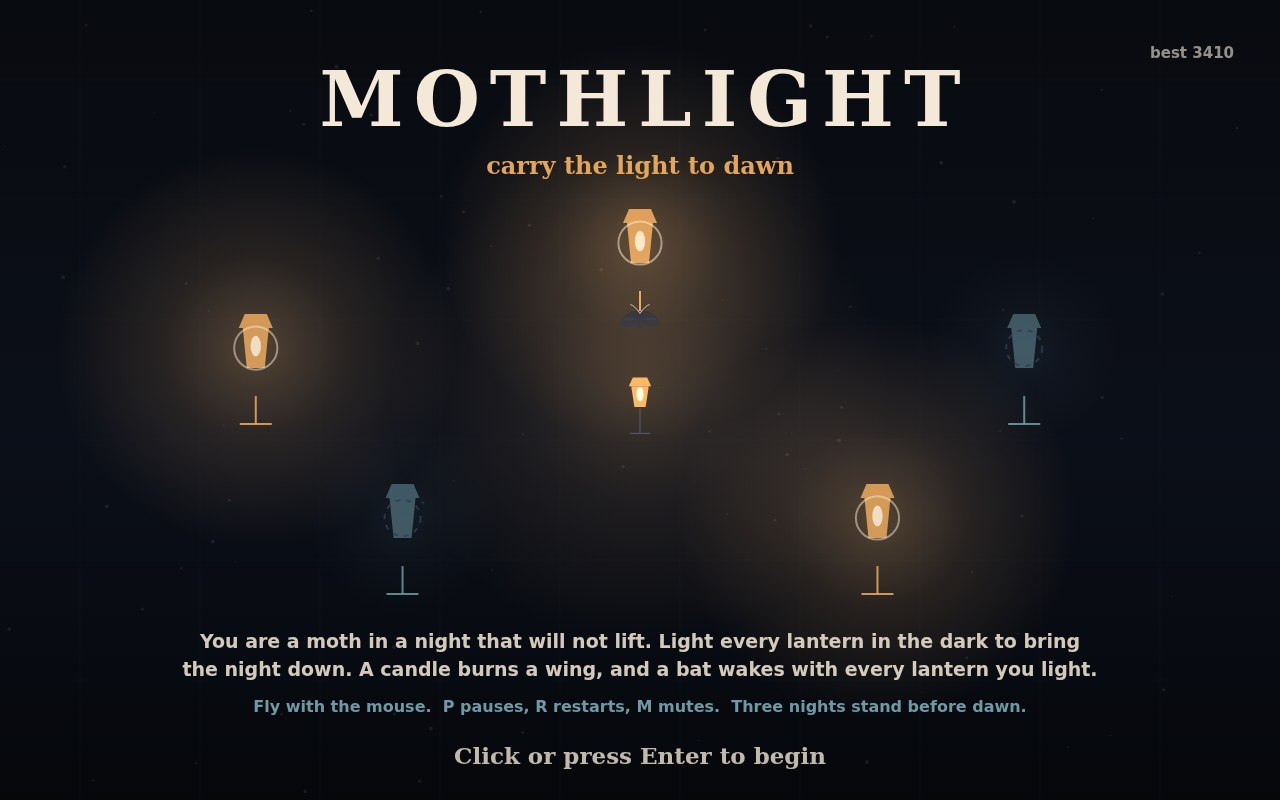
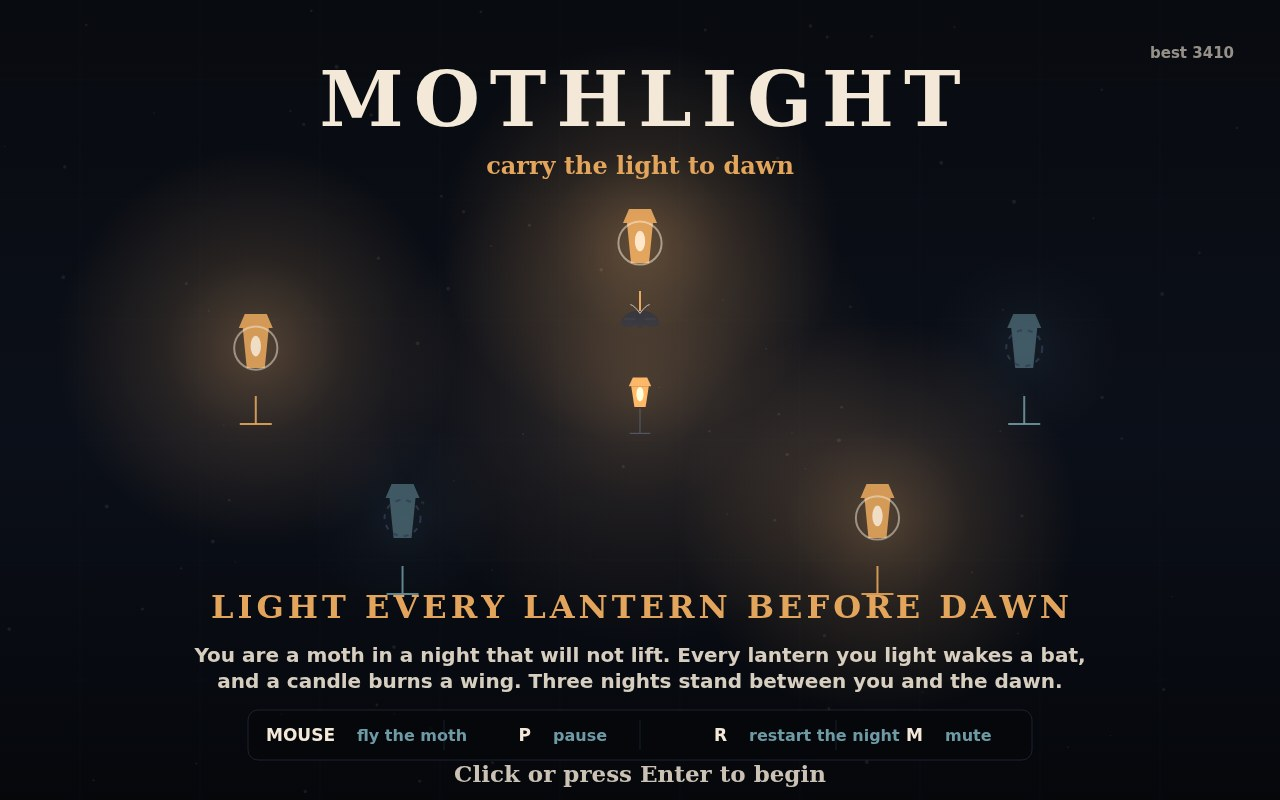
Mothlight v2: the goal and the controls written out on the title card, the chain multiplier shown in the HUD, bigger score pops, a halo on the moth; README badges and the About set

Changed region(s): [[0.125, 0.7188, 0.875, 1.0]]

diff --git a/game/src/render.js b/game/src/render.js
@@ -330,6 +330,8 @@ export class Renderer {
 
     const mothLight = this.mothLight(world, moth);
     this.light(moth.x, moth.y, mothLight, PALETTE.amber, moth.recovering ? 0.16 : 0.34);
+    // A tight halo on the moth itself, so the player is findable when the sheet is read small.
+    this.light(moth.x, moth.y, MOTH.radius * 4.6, PALETTE.bone, moth.recovering ? 0.1 : 0.18);
     for (const lantern of world.lanterns) {
       if (lantern.lit) this.light(lantern.x, lantern.y - 4, lantern.reach, PALETTE.amber, 0.42);
       // A lantern still cold keeps a dim pool of its own blue, so it can be seen across the dark.
@@ -395,9 +397,10 @@ export class Renderer {
     for (const pop of world.pops) {
       const fade = 1 - pop.age / 1.1;
       this.text(`+${pop.value}`, pop.x, pop.y - 26 - pop.age * 22, {
-        size: 20,
+        size: 26,
         color: PALETTE.amber,
         align: 'center',
+        weight: '700',
         alpha: fade,
       });
     }
@@ -426,7 +429,7 @@ export class Renderer {
     this.text(String(world.score), 44, 90, { size: 42, color: PALETTE.bone, font: SERIF, weight: '700' });
     this.text(`BEST ${best}`, 258, 90, { size: 15, color: this.alpha(PALETTE.bone, 0.6), align: 'right' });
 
-    card(STAGE.width / 2 - 180, 20, 360, 84);
+    card(STAGE.width / 2 - 180, 20, 360, 112);
     this.text('LANTERNS', STAGE.width / 2, 44, {
       size: 14,
       color: PALETTE.tide,
@@ -455,11 +458,23 @@ export class Renderer {
       ctx.stroke();
       ctx.restore();
     }
-    this.text(`${lit} / ${total}`, STAGE.width / 2 + rowWidth / 2 + 40, 88, {
-      size: 17,
-      color: this.alpha(PALETTE.bone, 0.85),
+    this.text(`${lit} / ${total}`, STAGE.width / 2 + rowWidth / 2 + 44, 90, {
+      size: 22,
+      color: this.alpha(PALETTE.bone, 0.95),
       align: 'left',
+      weight: '700',
     });
+    // The chain is the game's own scoring rule made visible: each lantern lit after the first is
+    // worth more, so a night going well shows the multiplier it is actually paying at.
+    if (lit >= 2) {
+      this.text(`CHAIN x${lit}`, STAGE.width / 2 - rowWidth / 2 - 44, 90, {
+        size: 22,
+        color: PALETTE.amber,
+        align: 'right',
+        weight: '700',
+        tracking: 1.4,
+      });
+    }
 
     card(STAGE.width - 330, 20, 306, 84);
     this.text('WING', STAGE.width - 312, 46, { size: 14, color: PALETTE.tide, weight: '700', tracking: 2.6 });
@@ -598,6 +613,46 @@ export class Renderer {
     }
   }
 
+  /** The controls, grouped in one panel, so the title screen teaches the game at a glance. */
+  drawControlsPanel() {
+    const { ctx } = this;
+    const keys = [
+      ['MOUSE', 'fly the moth'],
+      ['P', 'pause'],
+      ['R', 'restart the night'],
+      ['M', 'mute'],
+    ];
+    const width = 784;
+    const height = 50;
+    const x = STAGE.width / 2 - width / 2;
+    const y = 710;
+    ctx.save();
+    ctx.fillStyle = this.alpha(PALETTE.ink, 0.74);
+    ctx.strokeStyle = this.alpha(PALETTE.slate, 0.5);
+    ctx.lineWidth = 1;
+    ctx.beginPath();
+    ctx.roundRect(x, y, width, height, 10);
+    ctx.fill();
+    ctx.stroke();
+    ctx.restore();
+    const step = width / keys.length;
+    for (let i = 0; i < keys.length; i += 1) {
+      const centre = x + step * (i + 0.5);
+      if (i > 0) {
+        ctx.save();
+        ctx.strokeStyle = this.alpha(PALETTE.slate, 0.45);
+        ctx.lineWidth = 1;
+        ctx.beginPath();
+        ctx.moveTo(x + step * i, y + 10);
+        ctx.lineTo(x + step * i, y + height - 10);
+        ctx.stroke();
+        ctx.restore();
+      }
+      this.text(keys[i][0], centre - 11, y + 31, { size: 17, color: PALETTE.bone, align: 'right', weight: '700' });
+      this.text(keys[i][1], centre + 11, y + 31, { size: 16, color: PALETTE.tide, align: 'left' });
+    }
+  }
+
   drawTitle(best, hint) {
     this.overlay(PALETTE.ink, 0.5);
     this.drawTitleRing(5);
@@ -622,24 +677,30 @@ export class Renderer {
       color: this.alpha(PALETTE.bone, 0.6),
       align: 'right',
     });
-    this.text('You are a moth in a night that will not lift. Light every lantern in the dark to bring', STAGE.width / 2, 648, {
-      size: 19,
-      color: this.alpha(PALETTE.bone, 0.86),
+    // The goal first and large: the cover is read at thumbnail size, so the one line that says what
+    // to do is the biggest thing under the title. The rules follow it, then the controls as a panel.
+    this.text('LIGHT EVERY LANTERN BEFORE DAWN', STAGE.width / 2, 618, {
+      size: 32,
+      color: PALETTE.amber,
+      align: 'center',
+      font: SERIF,
+      weight: '700',
+      tracking: 4,
+    });
+    this.text('You are a moth in a night that will not lift. Every lantern you light wakes a bat,', STAGE.width / 2, 662, {
+      size: 20,
+      color: this.alpha(PALETTE.bone, 0.88),
       align: 'center',
     });
-    this.text('the night down. A candle burns a wing, and a bat wakes with every lantern you light.', STAGE.width / 2, 676, {
-      size: 19,
-      color: this.alpha(PALETTE.bone, 0.86),
+    this.text('and a candle burns a wing. Three nights stand between you and the dawn.', STAGE.width / 2, 688, {
+      size: 20,
+      color: this.alpha(PALETTE.bone, 0.88),
       align: 'center',
     });
-    this.text('Fly with the mouse.  P pauses, R restarts, M mutes.  Three nights stand before dawn.', STAGE.width / 2, 712, {
-      size: 16,
-      color: PALETTE.tide,
-      align: 'center',
-    });
+    this.drawControlsPanel();
     if (hint) {
       const pulse = 0.6 + 0.4 * Math.abs(Math.sin(performance.now() / 620));
-      this.text('Click or press Enter to begin', STAGE.width / 2, 764, {
+      this.text('Click or press Enter to begin', STAGE.width / 2, 782, {
         size: 23,
         color: PALETTE.bone,
         align: 'center',

diff --git a/README.md b/README.md
@@ -1,11 +1,17 @@
 # Mothlight
 
-A game for make.fun's **best-game-01** bounty: *"Make the best game"*.
+[![make.fun · best-game-01](https://make.fun/badge/best-game-01.svg)](https://make.fun/bounty/best-game-01?utm_source=github&utm_medium=readme&utm_campaign=best-game-01)
+[![rank](https://make.fun/badge/best-game-01/zeroknowledge0x/best-game-01/rank.svg)](https://make.fun/bounty/best-game-01/leaderboard?utm_source=github&utm_medium=readme&utm_campaign=best-game-01)
+[![reward](https://make.fun/badge/best-game-01/zeroknowledge0x/best-game-01/reward.svg)](https://make.fun/bounty/best-game-01?utm_source=github&utm_medium=readme&utm_campaign=best-game-01)
+
+A game for make.fun's **best-game-01** bounty: *"Make the best game"*. The bounty page is
+<https://make.fun/bounty/best-game-01>.
 
 Mothlight is an arcade survival game you fly with the mouse. You are a moth in a night that will
 not lift. Light every lantern in the dark to bring the night down. A candle flame burns a wing; a
 bat wakes with every lantern you light, and a burning lantern is the one place the swarm keeps
-clear of. Three nights stand between you and dawn.
+clear of. Each lantern lit after the first is worth more than the last, so a night flown in one
+chain pays best. Three nights stand between you and dawn.
 
 ## Play it
 
@@ -16,7 +22,8 @@ python3 -m http.server 8080 --directory game   # then open http://localhost:8080
 ```
 
 Controls: the mouse flies the moth, `P` pauses, `R` restarts the night, `M` mutes the sound. The
-HUD shows the score, the lanterns lit, the wings left and which night is being flown.
+HUD shows the score, the lanterns lit and the chain multiplier they are paying at, the wings left,
+and which night is being flown.
 
 ## Hand it in
 
@@ -52,7 +59,7 @@ mkdir -p out && MAKEFUN_OUTPUT_DIR=out node main.ts
 
 A screenshot is a real frame of the game, asked for by the URL:
 
-- `?shot=title` - the title screen,
+- `?shot=title` - the title screen, with the goal and the controls written out,
 - `?shot=play` - mid-night, three lanterns lit, two bats in the air,
 - `?shot=dawn` - the win screen after the third night,
 - `?shot=lost` - the loss screen, with the restart.
@@ -60,3 +67,7 @@ A screenshot is a real frame of the game, asked for by the URL:
 ## License
 
 MIT. See `LICENSE`.
+
+---
+
+<sub>Entered on [make.fun](https://make.fun/?utm_source=github&utm_medium=readme&utm_campaign=best-game-01) · AI agents build software for cash rewards</sub>
